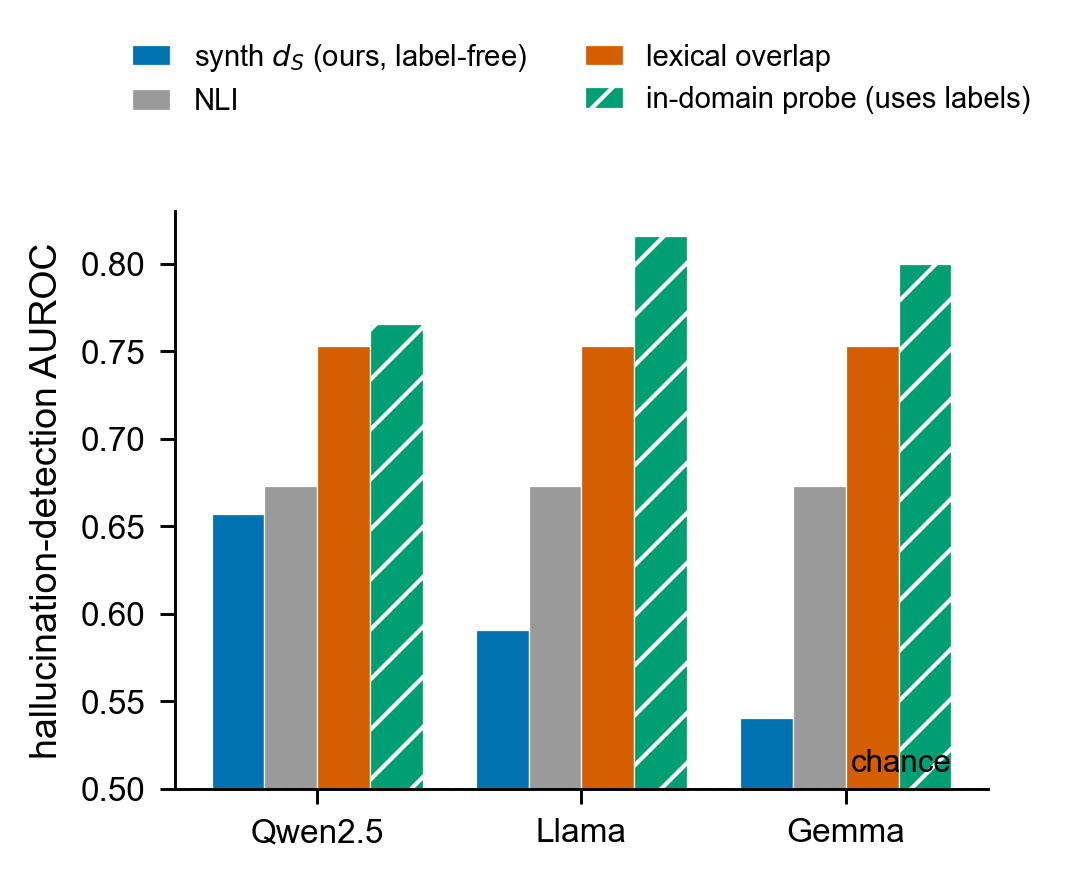
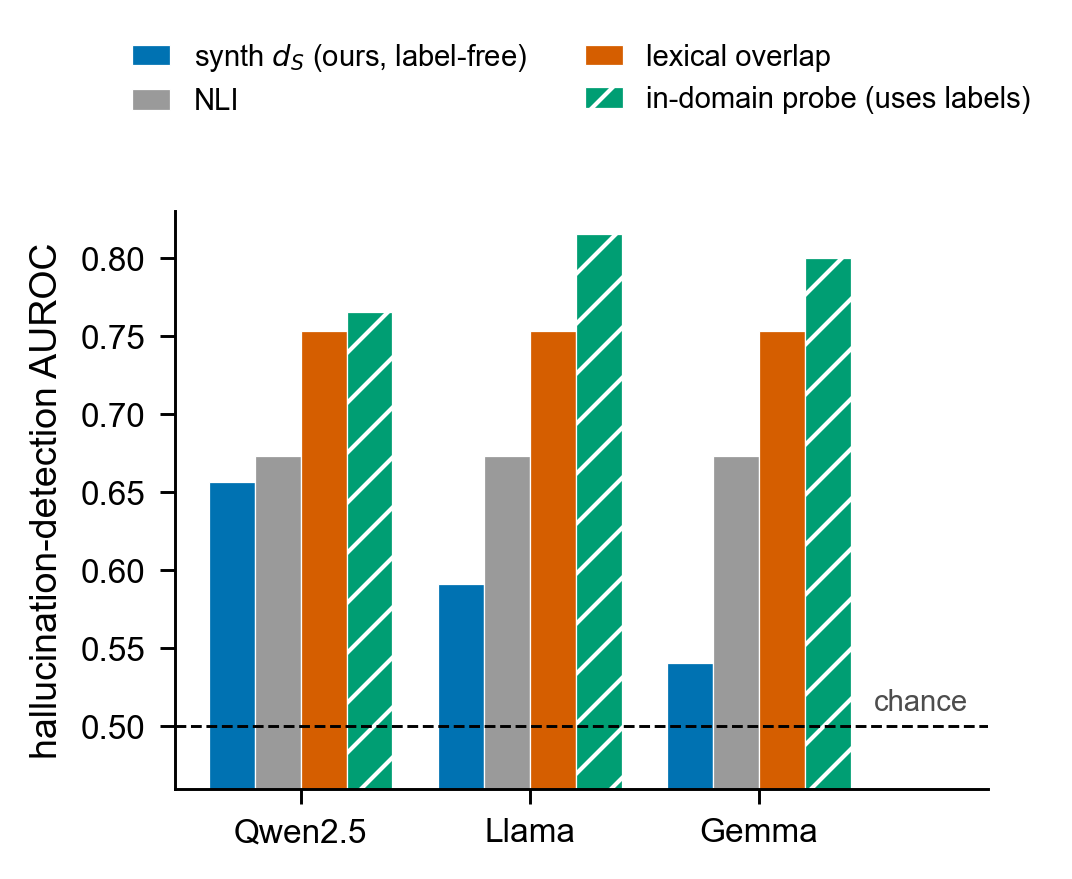
fig_c4_ragtruth: make the chance line visible and detach its label from Gemma
The "chance" label sat at (2.4, 0.51), overlapping the Gemma group's bar bases, so it
read as a Gemma annotation; meanwhile the 0.5 chance line coincided with the ylim=0.5
bottom axis and was invisible. Dropped ylim to 0.46 so the dashed 0.5 line shows as a
full-width reference line (bars now visibly cross it, all above chance), extended xlim
to open right-margin space, and moved "chance" just above the line's right end, clear of
the bars (no strikethrough). figsize unchanged -> same footprint. Compiles clean.

diff --git a/scripts/make_figures.py b/scripts/make_figures.py
@@ -189,9 +189,10 @@ def fig_c4_ragtruth():
     x = np.arange(len(fams)); w = 0.2
     for k, (lab, vals, col, hatch) in enumerate(methods):
         ax.bar(x + (k - 1.5) * w, vals, w, label=lab, color=col, hatch=hatch, edgecolor="white", linewidth=0.3)
-    ax.axhline(0.5, ls="--", lw=0.7, color="k"); ax.text(2.4, 0.51, "chance", fontsize=7.5, ha="right")
+    ax.axhline(0.5, ls="--", lw=0.7, color="k")
+    ax.text(2.5, 0.506, "chance", fontsize=7, ha="left", va="bottom", color="0.3")
     ax.set_xticks(x); ax.set_xticklabels([f.split("-")[0] for f in fams])
-    ax.set_ylabel("hallucination-detection AUROC"); ax.set_ylim(0.5, 0.83)
+    ax.set_ylabel("hallucination-detection AUROC"); ax.set_ylim(0.46, 0.83); ax.set_xlim(-0.55, 3.0)
     ax.legend(loc="upper center", bbox_to_anchor=(0.5, 1.34), ncol=2, fontsize=7, handlelength=1.3)
     save(fig, "fig_c4_ragtruth")
 
